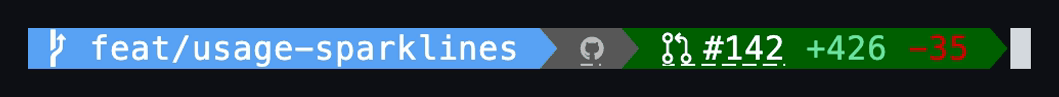
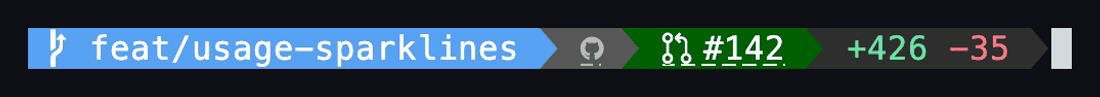
feat: render the PR diff in its own segment with green/red defaults and a diff_bg

Changed region(s): [[0.0312, 0.2784, 0.966, 0.7423]]

diff --git a/site/config.html b/site/config.html
@@ -665,12 +665,12 @@
           <thead><tr><th>Option</th><th>Type</th><th>Default</th><th>Description</th></tr></thead>
           <tbody>
             <tr><td><code>status</code></td><td>boolean</td><td><code>true</code></td><td>Add a dot for CI while the PR is open: green passing, yellow pending, red failing.</td></tr>
-            <tr><td><code>diff</code></td><td>boolean</td><td><code>false</code></td><td>Add the PR's added and deleted line counts, such as <code>+426 -35</code>.</td></tr>
+            <tr><td><code>diff</code></td><td>boolean</td><td><code>false</code></td><td>Add a segment with the PR's added and deleted line counts, such as <code>+426 -35</code>.</td></tr>
           </tbody>
         </table>
         <details class="theme-opts" data-theme="pr">
     <summary>Theme options <code>modules.pr</code></summary>
-    <table class="opts"><thead><tr><th>Property</th><th>Type</th><th>Styles</th><th>If unset</th></tr></thead><tbody><tr><td><code>draft_fg</code></td><td>color</td><td>Link text for a draft PR.</td><td><code>defaults.fg</code></td></tr><tr><td><code>draft_bg</code></td><td>color</td><td>Background for a draft PR.</td><td><code>defaults.bg</code></td></tr><tr><td><code>open_fg</code></td><td>color</td><td>Link text for an open PR.</td><td><code>defaults.fg</code></td></tr><tr><td><code>open_bg</code></td><td>color</td><td>Background for an open PR.</td><td><code>defaults.bg</code></td></tr><tr><td><code>merged_fg</code></td><td>color</td><td>Link text for a merged PR.</td><td><code>defaults.fg</code></td></tr><tr><td><code>merged_bg</code></td><td>color</td><td>Background for a merged PR.</td><td><code>defaults.bg</code></td></tr><tr><td><code>closed_fg</code></td><td>color</td><td>Link text for a closed PR.</td><td><code>defaults.fg</code></td></tr><tr><td><code>closed_bg</code></td><td>color</td><td>Background for a closed PR.</td><td><code>defaults.bg</code></td></tr><tr><td><code>status_success_fg</code></td><td>color</td><td>CI dot when checks pass.</td><td><code>defaults.fg</code></td></tr><tr><td><code>status_failure_fg</code></td><td>color</td><td>CI dot when checks fail.</td><td><code>defaults.fg</code></td></tr><tr><td><code>status_pending_fg</code></td><td>color</td><td>CI dot while checks run.</td><td><code>defaults.fg</code></td></tr><tr><td><code>diff_added_fg</code></td><td>color</td><td>Lines added, shown with diff.</td><td><code>defaults.fg</code></td></tr><tr><td><code>diff_removed_fg</code></td><td>color</td><td>Lines deleted, shown with diff.</td><td><code>defaults.fg</code></td></tr><tr><td><code>icon</code></td><td>string</td><td>Icon before the PR number.</td><td>U+EA64</td></tr><tr><td><code>status_icon</code></td><td>string</td><td>The CI dot.</td><td><code>"●"</code></td></tr></tbody></table>
+    <table class="opts"><thead><tr><th>Property</th><th>Type</th><th>Styles</th><th>If unset</th></tr></thead><tbody><tr><td><code>draft_fg</code></td><td>color</td><td>Link text for a draft PR.</td><td><code>defaults.fg</code></td></tr><tr><td><code>draft_bg</code></td><td>color</td><td>Background for a draft PR.</td><td><code>defaults.bg</code></td></tr><tr><td><code>open_fg</code></td><td>color</td><td>Link text for an open PR.</td><td><code>defaults.fg</code></td></tr><tr><td><code>open_bg</code></td><td>color</td><td>Background for an open PR.</td><td><code>defaults.bg</code></td></tr><tr><td><code>merged_fg</code></td><td>color</td><td>Link text for a merged PR.</td><td><code>defaults.fg</code></td></tr><tr><td><code>merged_bg</code></td><td>color</td><td>Background for a merged PR.</td><td><code>defaults.bg</code></td></tr><tr><td><code>closed_fg</code></td><td>color</td><td>Link text for a closed PR.</td><td><code>defaults.fg</code></td></tr><tr><td><code>closed_bg</code></td><td>color</td><td>Background for a closed PR.</td><td><code>defaults.bg</code></td></tr><tr><td><code>status_success_fg</code></td><td>color</td><td>CI dot when checks pass.</td><td><code>defaults.fg</code></td></tr><tr><td><code>status_failure_fg</code></td><td>color</td><td>CI dot when checks fail.</td><td><code>defaults.fg</code></td></tr><tr><td><code>status_pending_fg</code></td><td>color</td><td>CI dot while checks run.</td><td><code>defaults.fg</code></td></tr><tr><td><code>diff_added_fg</code></td><td>color</td><td>Lines added, shown with diff.</td><td><code>"green"</code></td></tr><tr><td><code>diff_removed_fg</code></td><td>color</td><td>Lines deleted, shown with diff.</td><td><code>"red"</code></td></tr><tr><td><code>diff_bg</code></td><td>color</td><td>Background of the diff segment.</td><td><code>defaults.bg</code></td></tr><tr><td><code>icon</code></td><td>string</td><td>Icon before the PR number.</td><td>U+EA64</td></tr><tr><td><code>status_icon</code></td><td>string</td><td>The CI dot.</td><td><code>"●"</code></td></tr></tbody></table>
   </details><!-- /theme -->
         <div class="examples">
           <div class="example" data-example="pr/minimal">
@@ -680,7 +680,7 @@
 </div><!-- /example -->
           <div class="example" data-example="pr/full">
   <div class="ex-label">All options: CI dot hidden, diff shown</div>
-  <figure class="term shot"><img src="img/config/pr-full.png" width="529" height="48" loading="lazy" alt="The pr example: All options: CI dot hidden, diff shown."></figure>
+  <figure class="term shot"><img src="img/config/pr-full.png" width="550" height="48" loading="lazy" alt="The pr example: All options: CI dot hidden, diff shown."></figure>
   <pre class="json"><code>{ <span class="k">"pr"</span>: { <span class="k">"status"</span>: <span class="n">false</span>, <span class="k">"diff"</span>: <span class="n">true</span> } }</code></pre>
 </div><!-- /example -->
         </div>

diff --git a/src/powerline.rs b/src/powerline.rs
@@ -375,25 +375,29 @@ impl Powerline {
         self.push_segment(seg, style, default, None);
     }
 
-    /// Adds a segment whose text is an OSC 8 terminal hyperlink, followed by
-    /// `markers`: coloured pieces (e.g. the PR status dot or diff counts),
-    /// each after a space, that share this segment's background instead of
-    /// getting one of their own. The OSC and colour escapes are invisible, so
-    /// the visible width is computed from `label` and the markers alone to
-    /// keep column accounting (and right-prompt padding) correct.
+    /// Adds a segment whose text is an OSC 8 terminal hyperlink, optionally
+    /// followed by a coloured marker glyph (e.g. the PR status dot) that shares
+    /// this segment's background instead of getting one of its own. The OSC and
+    /// colour escapes are invisible, so the visible width is computed from
+    /// `label` and the marker glyph alone to keep column accounting (and
+    /// right-prompt padding) correct.
     pub fn add_hyperlink_segment(
         &mut self,
         label: &str,
         url: &str,
         style: Style,
-        markers: &[(&str, Color)],
+        marker: Option<(&str, Color)>,
     ) {
         let mut visible_width = label.width();
-        let mut seg = Hyperlink { url, label }.to_string();
-        for (text, color) in markers {
-            visible_width += 1 + text.width();
-            let _ = write!(seg, " {}", tinted(text, *color, &style));
-        }
+        let link = Hyperlink { url, label }.to_string();
+        let seg = match marker {
+            Some((glyph, color)) => {
+                // separating space + the glyph itself
+                visible_width += 1 + glyph.width();
+                format!("{} {}", link, tinted(glyph, color, &style))
+            }
+            None => link,
+        };
         self.push_segment(seg, style, self.module_padding, Some(visible_width));
     }
 
@@ -977,7 +981,7 @@ mod tests {
             let style = Style::simple(Color::from_u8(15), Color::from_u8(0));
             powerline.add_segment("one", style.clone());
             powerline.add_padded_segment("two", style.clone(), SegmentPadding::Right);
-            powerline.add_hyperlink_segment("#1", "https://example.com/1", style, &[]);
+            powerline.add_hyperlink_segment("#1", "https://example.com/1", style, None);
         }
     }
 
@@ -1043,7 +1047,7 @@ mod tests {
         let mut powerline = flush_powerline();
         powerline.add_segment("one", style.clone());
         powerline.add_short_segment("two", style.clone());
-        powerline.add_hyperlink_segment("#12", "https://example.com/pr/12", style, &[]);
+        powerline.add_hyperlink_segment("#12", "https://example.com/pr/12", style, None);
         assert_eq!(visible(&powerline.left_buffer), " one two #12 ");
         assert_eq!(powerline.left_columns, 5 + 3 + 5);
     }
@@ -1115,7 +1119,7 @@ mod tests {
     #[test]
     fn hyperlink_width_includes_the_widget_padding() {
         let style = Style::simple(Color::from_u8(15), Color::from_u8(0));
-        let marker = &[("●", Color::from_u8(2))];
+        let marker = Some(("●", Color::from_u8(2)));
         let cases = PADDINGS
             .map(|(padding, before, after)| (Some(padding), before, after))
             .into_iter()
@@ -1268,7 +1272,7 @@ mod tests {
             "BB",
             "https://example.com",
             bold_style(),
-            &[("m", Color(2).with_attrs(ITALIC))],
+            Some(("m", Color(2).with_attrs(ITALIC))),
         );
         powerline.add_segment("a", Style::simple(Color(15), Color(31)));
         powerline.close_left_buffer();
@@ -1311,7 +1315,7 @@ mod tests {
             "#1",
             "https://example.com",
             style.clone(),
-            &[("m", Color(2))],
+            Some(("m", Color(2))),
         );
         powerline.add_segment("a", style.clone());
         powerline.close_left_buffer();

diff --git a/src/modules/pr.rs b/src/modules/pr.rs
@@ -7,7 +7,7 @@ use serde::{Deserialize, Serialize};
 
 use crate::cache::{hash_id, Cached, Lookup, Source};
 use crate::claude_code::PullRequest;
-use crate::colors::Color;
+use crate::colors::{self, Color};
 use crate::config::SegmentPadding;
 use crate::themes::DefaultColors;
 use crate::utils::join_non_empty;
@@ -32,6 +32,8 @@ pub struct Pr<S> {
 pub trait PrScheme: DefaultColors {
     const PR_ICON: &'static str = "\u{ea64}"; // nf-cod-git_pull_request
     const PR_STATUS_ICON: &'static str = "\u{25cf}"; // ● black circle
+    const PR_DIFF_ADDED_FG: Color = colors::green();
+    const PR_DIFF_REMOVED_FG: Color = colors::red();
 
     fn pr_draft_fg() -> Color {
         Self::default_fg()
@@ -75,10 +77,13 @@ pub trait PrScheme: DefaultColors {
     }
 
     fn pr_diff_added_fg() -> Color {
-        Self::default_fg()
+        Self::PR_DIFF_ADDED_FG
     }
     fn pr_diff_removed_fg() -> Color {
-        Self::default_fg()
+        Self::PR_DIFF_REMOVED_FG
+    }
+    fn pr_diff_bg() -> Color {
+        Self::default_bg()
     }
 }
 
@@ -256,19 +261,16 @@ impl<S: PrScheme> Module for Pr<S> {
             .flatten()
             .filter(|(icon, _)| !icon.is_empty());
 
-        let mut markers: Vec<(&str, Color)> = marker.into_iter().collect();
-        let diff = pr.diff.filter(|_| self.show_diff).map(|diff| {
-            (
-                format!("+{}", diff.additions),
-                format!("-{}", diff.deletions),
-            )
-        });
-        if let Some((added, removed)) = &diff {
-            markers.push((added, S::pr_diff_added_fg()));
-            markers.push((removed, S::pr_diff_removed_fg()));
-        }
+        powerline.add_hyperlink_segment(&label, &pr.url, Style::simple(fg, bg), marker);
 
-        powerline.add_hyperlink_segment(&label, &pr.url, Style::simple(fg, bg), &markers);
+        if let Some(diff) = pr.diff.filter(|_| self.show_diff) {
+            powerline.add_two_tone_segment(
+                &format!("+{}", diff.additions),
+                &format!("-{}", diff.deletions),
+                S::pr_diff_removed_fg(),
+                Style::simple(S::pr_diff_added_fg(), S::pr_diff_bg()),
+            );
+        }
     }
 }
 

diff --git a/src/themes/custom.rs b/src/themes/custom.rs
@@ -553,8 +553,17 @@ impl PrScheme for CustomTheme {
     color_from_json!(pr_status_success_fg, pr, status_success_fg, default_fg);
     color_from_json!(pr_status_failure_fg, pr, status_failure_fg, default_fg);
     color_from_json!(pr_status_pending_fg, pr, status_pending_fg, default_fg);
-    color_from_json!(pr_diff_added_fg, pr, diff_added_fg, default_fg);
-    color_from_json!(pr_diff_removed_fg, pr, diff_removed_fg, default_fg);
+    fn pr_diff_added_fg() -> Color {
+        Self::get_color("pr", "diff_added_fg")
+            .unwrap_or(Self::PR_DIFF_ADDED_FG)
+            .with_attrs(Self::get_text_attrs(&["pr"], "diff_added_fg"))
+    }
+    fn pr_diff_removed_fg() -> Color {
+        Self::get_color("pr", "diff_removed_fg")
+            .unwrap_or(Self::PR_DIFF_REMOVED_FG)
+            .with_attrs(Self::get_text_attrs(&["pr"], "diff_removed_fg"))
+    }
+    color_from_json!(pr_diff_bg, pr, diff_bg, default_bg);
 
     icon_from_json!(pr_icon, pr, icon, PR_ICON);
     icon_from_json!(pr_status_icon, pr, status_icon, PR_STATUS_ICON);

diff --git a/src/modules/git.rs b/src/modules/git.rs
@@ -854,7 +854,7 @@ impl<S: GitScheme> Module for Git<S> {
             let style = Style::simple(S::git_remote_fg(), S::git_remote_bg());
             match &stats.remote_url {
                 _ if remote.is_empty() => {}
-                Some(url) => powerline.add_hyperlink_segment(&remote, url, style, &[]),
+                Some(url) => powerline.add_hyperlink_segment(&remote, url, style, None),
                 None => powerline.add_segment(remote, style),
             }
         }

diff --git a/README.md b/README.md
@@ -455,7 +455,7 @@ Status is produced by one of two backends, chosen with `backend`:
 A clickable link to the GitHub pull request for the current branch, looked up via the `gh` CLI. The segment color
 reflects the PR state (draft, open, merged, closed). With `status` on (the default) a colored dot follows the PR
 number showing CI check status: green for success, red for failure, yellow for pending. With `diff` on (off by
-default) the PR's added and deleted line counts follow, as `+426 -35`.
+default) the PR's added and deleted line counts follow in a segment of their own, as `+426 -35`.
 
 The lookup runs in the background and is cached, so it never blocks the prompt - the link appears on a later prompt
 once the result is ready. The module is skipped entirely on `main`, `master` and `develop`.
